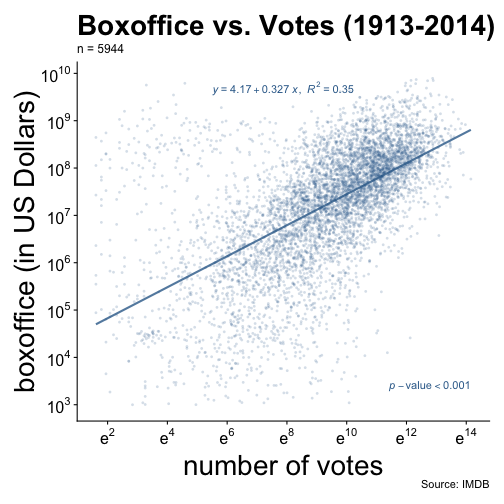
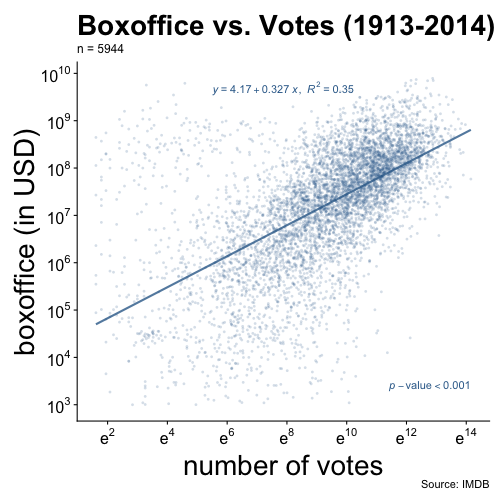
update 06-xxx

Changed region(s): [[0.0298, 0.1786, 0.0893, 0.8036]]

diff --git a/manuscript/06-web-display.md b/manuscript/06-web-display.md
@@ -1,22 +1,21 @@
 ## Web Display
 
 The plots created so far are too small for web display. If you are making an 
-[analytic web app](http://app.cabaceo.com/ocpu/github/gmlang/imdb/www/#/bo), 
-you want bigger font size, bigger point size and bigger everything. 
-Luckily, the function `web_display()` comes to rescue. Often, all you have to 
-do is to feed in the plot object, and it'll return a plot object that just 
-looks right when shown in a web browser. Below is an example.
+analytic web app, you may want bigger font size and everything. Luckily, the 
+function `web_display()` comes to rescue. Often, all you have to 
+do is to feed in the plot object, and it'll return a plot object that looks 
+just right when shown in a web browser. Below is an example.
 
-A>
+
 ```r
 library(ezplot)
+library(dplyr)
 plt = mk_scatterplot(films)
 p = plt("votes", "boxoffice", alpha = 0.2, jitter = T) %>% 
         add_labs(xlab="number of votes", 
-                 ylab="boxoffice (in US Dollars)", 
+                 ylab="boxoffice (in USD)", 
                  title = "Boxoffice vs. Votes (1913-2014)",
-                 caption = "Source: IMDB"
-                 )
+                 caption = "Source: IMDB")
 p = scale_axis(p, "y", scale = "log10") # use log10 scale on y-axis
 p = scale_axis(p, "x", scale = "log") # use log scale on x-axis
 p = add_lm_line(p, eq_ypos = 0.95, eq_xpos = 0.5) 
